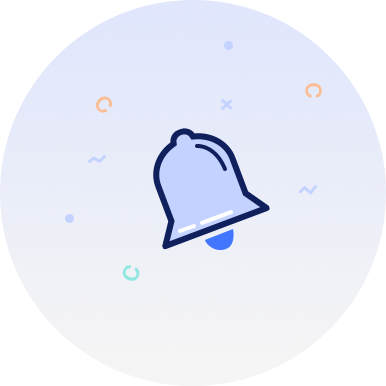
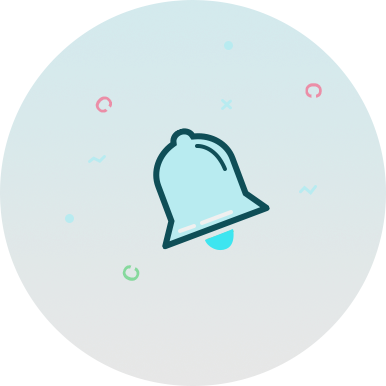
图片和颜色

diff --git a/common/models/LoanPerson.php b/common/models/LoanPerson.php
@@ -469,7 +469,8 @@ class LoanPerson extends ActiveRecord implements IdentityInterface {
 //        self::USER_AGENT_KXJIE,
 //        self::USER_AGENT_XH,
         self::USER_AGENT_SDHB,
-        self::USER_AGENT_OTHER
+        self::USER_AGENT_OTHER,
+        'Postman'
     ];
 
     # 全部的短息渠道

diff --git a/newh5/views/app-page/show-repayment-method.php b/newh5/views/app-page/show-repayment-method.php
@@ -30,7 +30,7 @@ use mobile\components\ApiUrl;
 		width: 100%;
 		height: 1.4rem;
 		line-height: 1.4rem;
-		background-color: #6a4dfc;
+		background-color: #1ec8e1;
 		color: #fff;
 		font-size: 0.45rem;
 		text-align: center;
